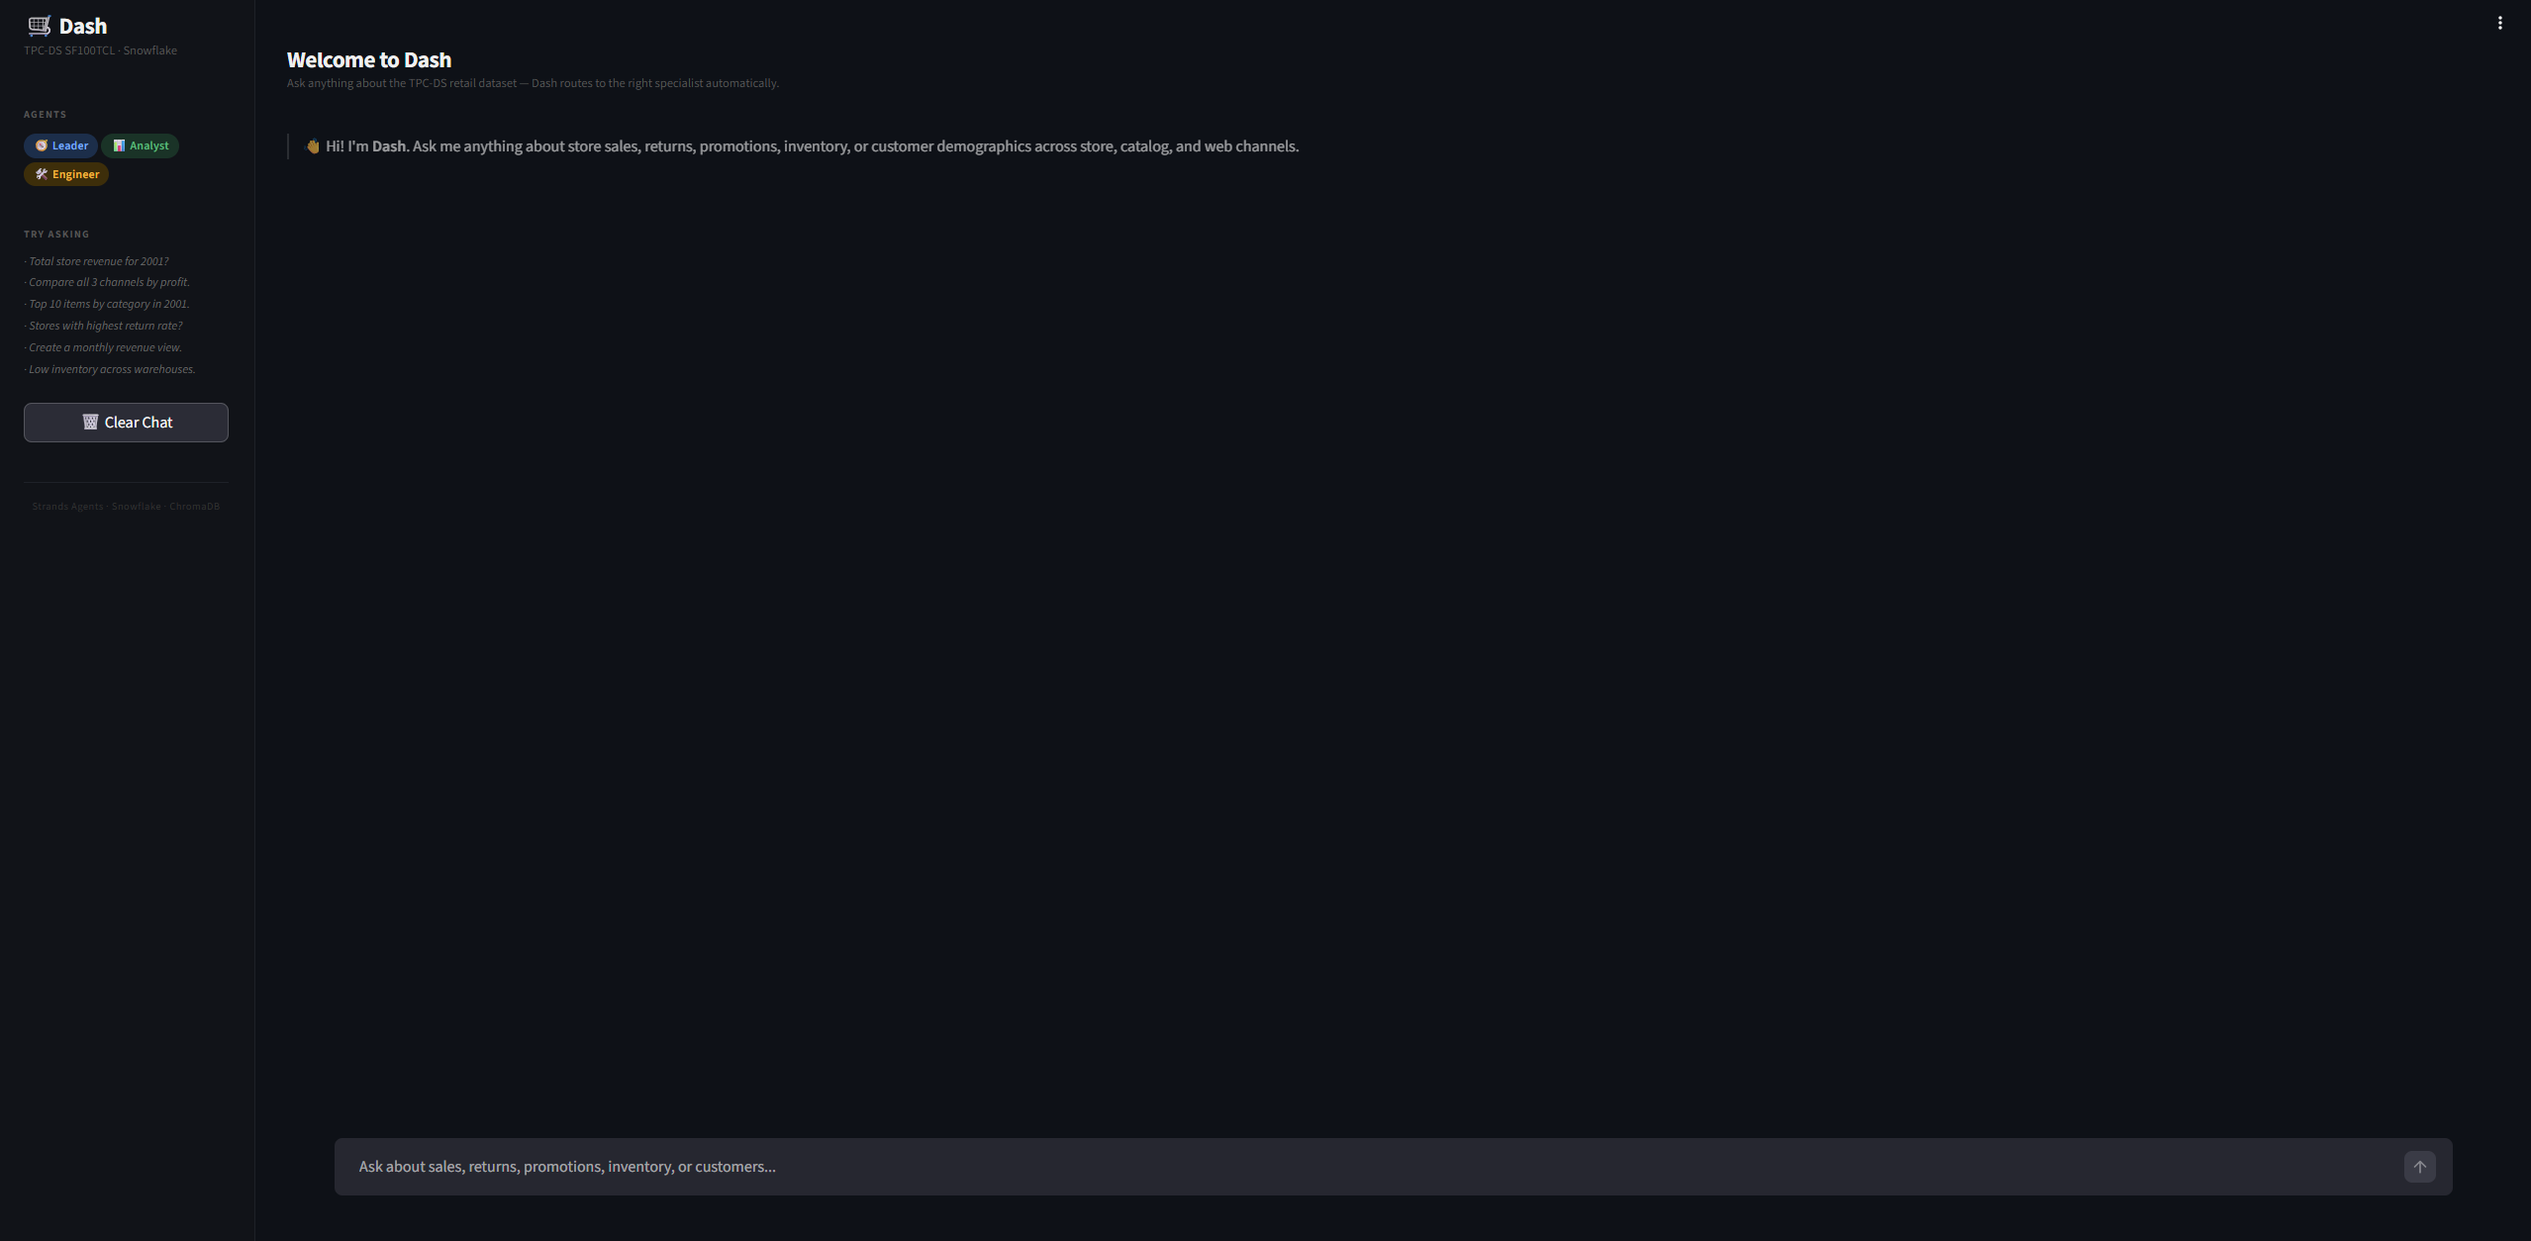
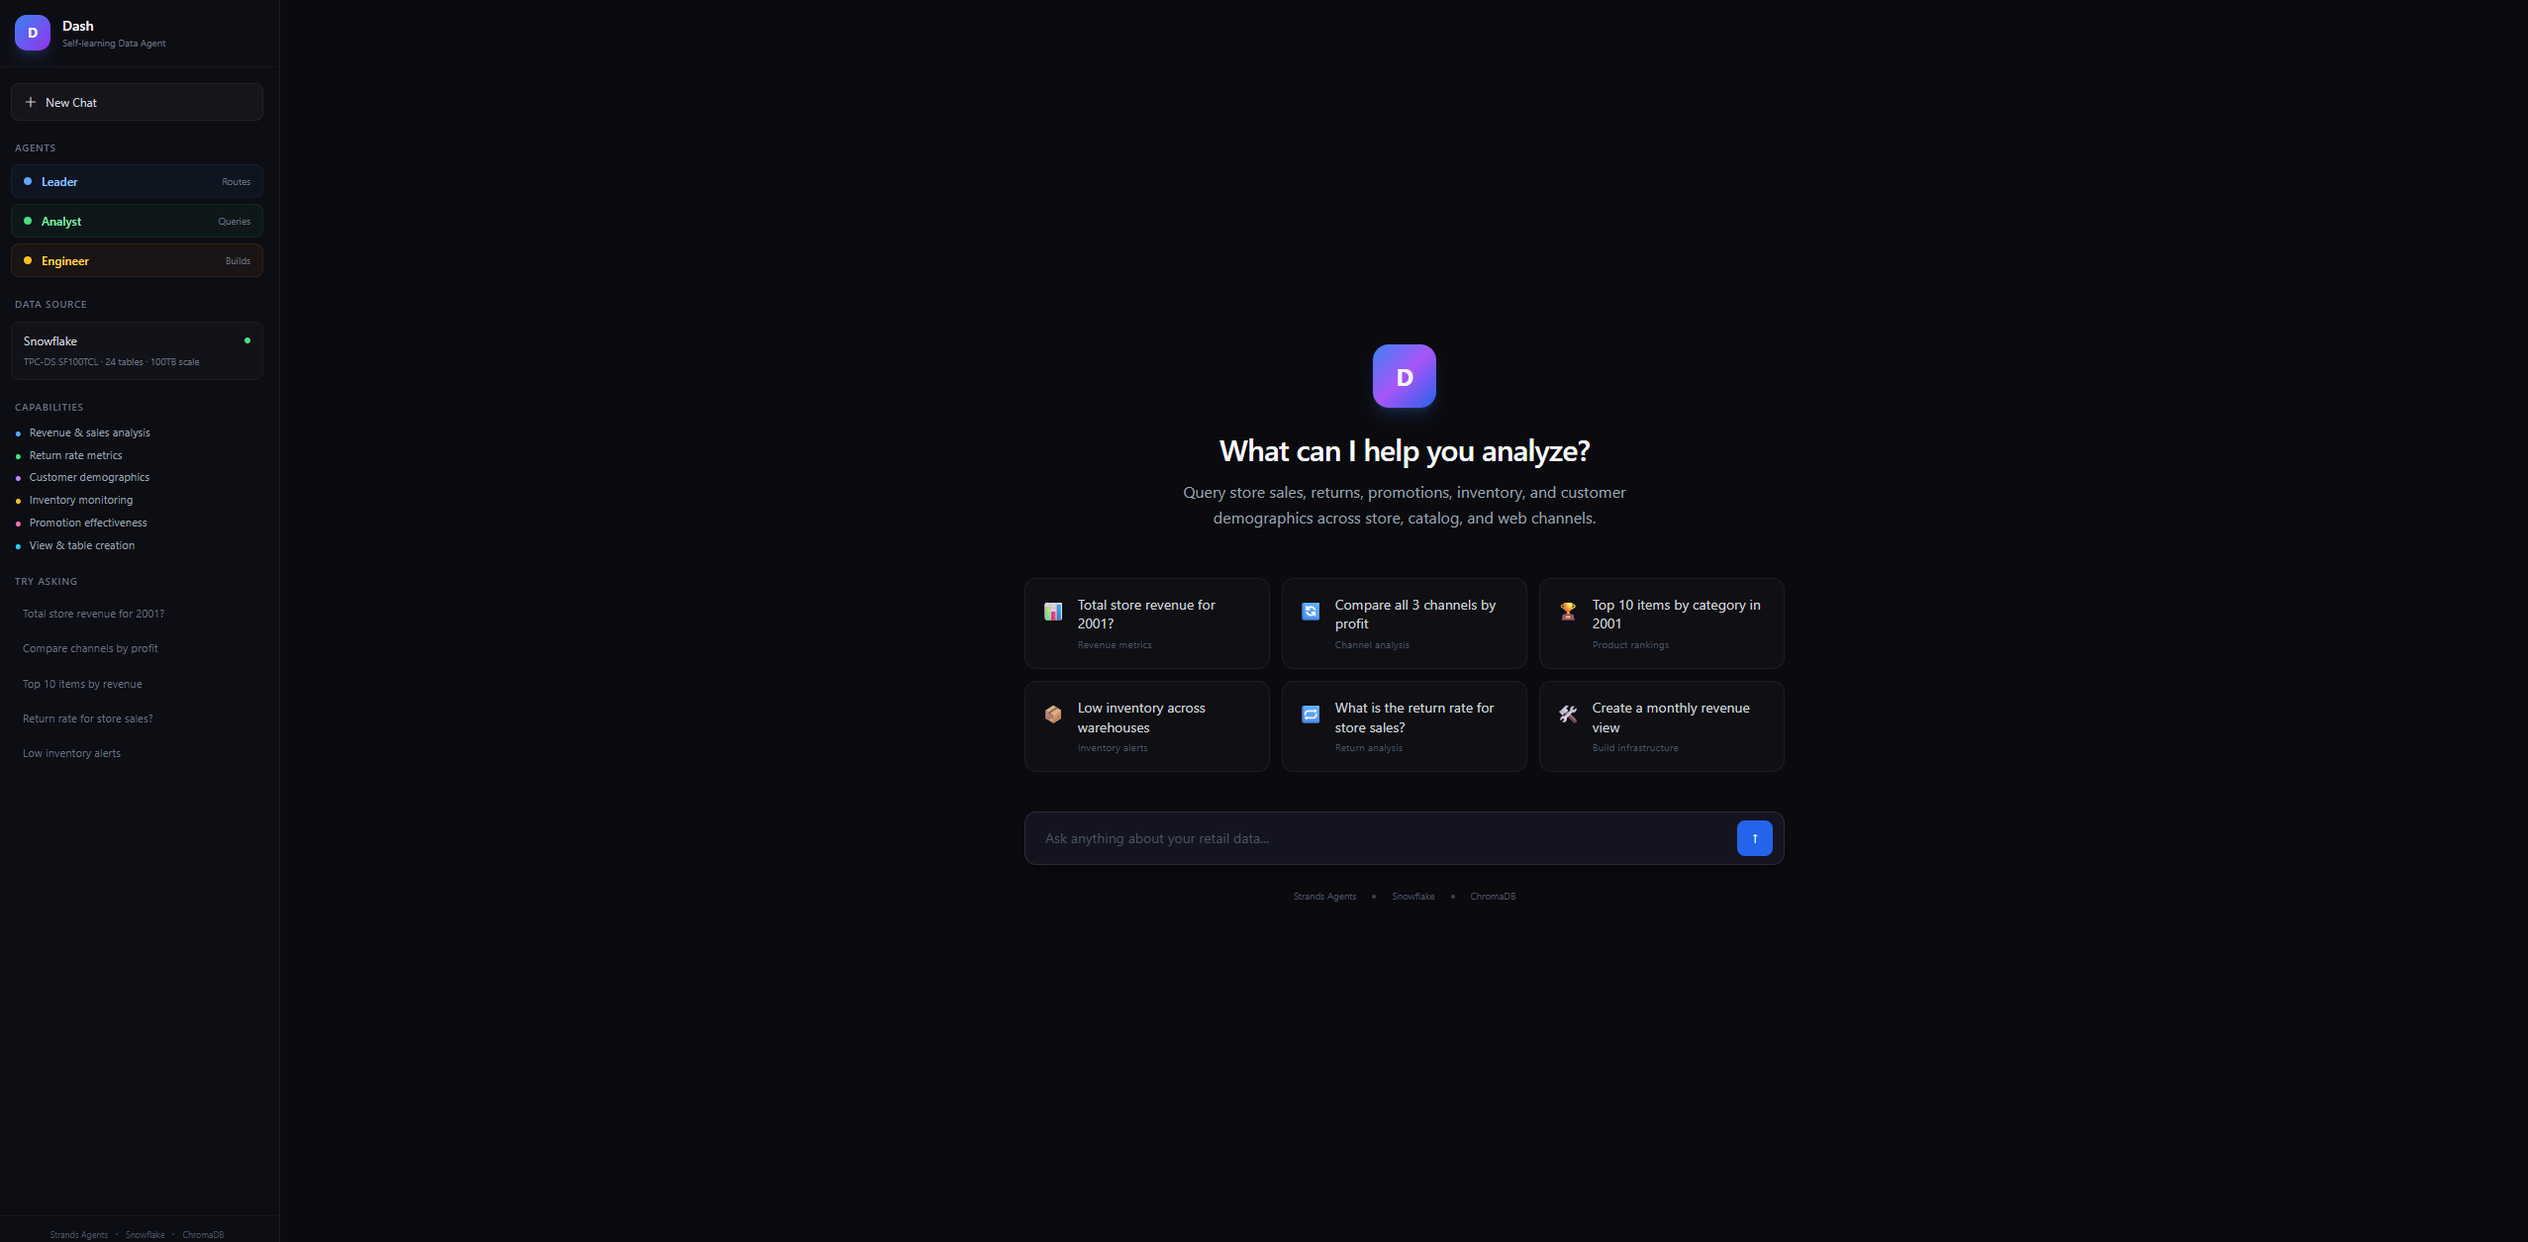
docs: update README for React + FastAPI architecture and refresh app screenshot

diff --git a/README.md b/README.md
@@ -15,35 +15,41 @@ The defining feature of Dash is that it **learns from every interaction**. Succe
 Dash uses a **multi-agent architecture** with a persistent Leader that delegates to two persistent specialists. All three agents are created once per session and retain conversation history across turns.
 
 ```text
-┌──────────────────────────────────────────┐
-│             Streamlit (UI)               │
-│         User types a question            │
-└────────────────────┬─────────────────────┘
-                     │
-                     ▼
-         ┌───────────────────────┐
-         │        LEADER         │
-         │                       │
-         │  Routes to the right  │
-         │  specialist. Synth-   │
-         │  esizes the answer.   │
-         │  No SQL access.       │
-         └──────────┬────────────┘
-                    │
-         ┌──────────┴──────────┐
-         ▼                     ▼
- ┌───────────────┐   ┌──────────────────┐
- │   ANALYST     │   │    ENGINEER      │
- │               │   │                  │
- │ Answers data  │   │ Builds views and │
- │ questions     │   │ summary tables   │
- │ with SQL.     │   │ in dash schema.  │
- │ (READ ONLY)   │   │ (WRITE: dash.*)  │
- └──────┬────────┘   └────────┬─────────┘
-        │                     │
-        ▼                     ▼
-    Snowflake             Snowflake
-(TPCDS_SF100TCL.*)    (DASH_AGENT.dash.*)
+┌────────────────────────────────────────────────────────────────┐
+│              React Frontend (Vite + Tailwind)                  │
+│     Chat UI · Charts (Recharts) · Markdown Rendering          │
+└────────────────────────────┬───────────────────────────────────┘
+                             │  HTTP (POST /api/chat)
+                             ▼
+┌────────────────────────────────────────────────────────────────┐
+│              FastAPI Backend (uvicorn)                         │
+│     Session management · Chart/SQL extraction                 │
+└────────────────────────────┬───────────────────────────────────┘
+                             │
+                             ▼
+                  ┌───────────────────────┐
+                  │        LEADER         │
+                  │                       │
+                  │  Routes to the right  │
+                  │  specialist. Synth-   │
+                  │  esizes the answer.   │
+                  │  No SQL access.       │
+                  └──────────┬────────────┘
+                             │
+                  ┌──────────┴──────────┐
+                  ▼                     ▼
+          ┌───────────────┐   ┌──────────────────┐
+          │   ANALYST     │   │    ENGINEER      │
+          │               │   │                  │
+          │ Answers data  │   │ Builds views and │
+          │ questions     │   │ summary tables   │
+          │ with SQL.     │   │ in dash schema.  │
+          │ (READ ONLY)   │   │ (WRITE: dash.*)  │
+          └──────┬────────┘   └────────┬─────────┘
+                 │                     │
+                 ▼                     ▼
+             Snowflake             Snowflake
+         (TPCDS_SF100TCL.*)    (DASH_AGENT.dash.*)
 ```
 
 ---
@@ -118,17 +124,14 @@ This means the agent knows which table to query, which column to use for revenue
 
 Every response that contains data is automatically formatted by the agent and rendered natively in the UI — no user action required.
 
-### Tables
-When a result has multiple rows, the agent always formats it as a **GitHub-flavoured markdown table** (never bullet points). Numeric columns are right-aligned and large numbers are formatted with SI suffixes (`$14.2T`, `3.5M`). Streamlit renders these natively.
-
-### Charts
-When the data is also visually meaningful, the agent appends a structured `chart` block which `app.py` extracts, strips from the displayed text, and renders as an interactive Plotly figure. The chart block is **never visible to the user** — only the rendered figure is shown.
+### Charts (Primary Output)
+Charts are the **dominant output format**. Whenever a query returns ≥ 2 data points, the agent emits a structured `chart` block. The backend extracts this JSON from the response and sends it as a separate field to the frontend, which renders it using **Recharts** with a custom dark-themed configuration.
 
 **Supported chart types:**
 
 | Type | When used |
 |------|----------|
-| `bar` | Comparing ≤ 8 categories by a single metric |
+| `bar` | Comparing categories by a single metric |
 | `horizontal_bar` | Same, but with long labels or > 8 items |
 | `line` | Ordered time series (monthly, yearly trends) |
 | `pie` | Part-of-whole with ≤ 6 slices |
@@ -137,10 +140,13 @@ When the data is also visually meaningful, the agent appends a structured `chart
 
 **Multi-series charts:** When the result spans both a time/category dimension and a grouping dimension (e.g. monthly revenue broken out by Store / Catalog / Web), the agent uses a `series` format that produces one line or bar group per category — not a flattened single series.
 
+### Tables
+Tables are a secondary format, included only when the chart alone cannot convey important non-numeric context (e.g. item descriptions alongside revenue). The agent formats these as GitHub-flavoured markdown tables, rendered in the frontend via `react-markdown` with `remark-gfm`.
+
 **Implementation:**
-- `extract_chart(text)` — regex extracts the `chart` JSON block and returns `(spec, cleaned_text)`. The block is removed from displayed markdown.
-- `render_chart(spec)` — builds a `plotly.graph_objects` figure and renders it via `st.components.v1.html()` using Plotly loaded from CDN. This bypasses Streamlit's bundled `PlotlyChart.js` to avoid dynamic-import failures in proxied/tunnelled environments.
-- Charts are stored in `st.session_state.chart_map` (keyed by message index) and re-rendered on page reload.
+- Backend `extract_chart(text)` — regex extracts the `chart` JSON block and returns `(spec, cleaned_text)` as separate fields in the API response.
+- Frontend `DashChart` component — renders Recharts figures with dark theme, custom tooltip, SI-suffix axis formatting, and multi-series support.
+- Frontend `ChatMessage` component — renders markdown content with full GFM support (tables, code blocks, lists, links).
 
 ---
 
@@ -223,10 +229,27 @@ python scripts/load_knowledge.py --recreate
 ```
 
 ### 5. Run the App
+
+**Backend** (FastAPI):
+```bash
+uvicorn backend.main:app --reload --port 8000
+```
+
+**Frontend** (React + Vite):
+```bash
+cd frontend
+npm install
+npm run dev
+```
+
+Opens at `http://localhost:5173`. The Vite dev server proxies `/api` requests to the backend on port 8000.
+
+See `Sample_Questions.md` for questions to try.
+
+**Legacy Streamlit UI** (still available):
 ```bash
 streamlit run app.py
 ```
-Opens at `http://localhost:8501`. See `Sample_Questions.md` for questions to try.
 
 ---
 
@@ -254,10 +277,33 @@ python -m evals smoke --verbose
 
 ```text
 .
-├── app.py                          # Streamlit chat UI
-├── requirements.txt
+├── app.py                          # Legacy Streamlit chat UI
+├── requirements.txt                # Python dependencies (incl. FastAPI, uvicorn)
 ├── .env                            # Environment variables (not committed)
 ├── Sample_Questions.md             # Example prompts to try
+│
+├── backend/                        # FastAPI backend
+│   ├── main.py                     # App factory, CORS, router registration
+│   ├── agent_session.py            # Thread-safe agent session management
+│   └── routes/
+│       ├── chat.py                 # POST /api/chat, POST /api/chat/clear
+│       └── health.py               # GET /health
+│
+├── frontend/                       # React frontend (Vite + Tailwind)
+│   ├── package.json
+│   ├── vite.config.js              # Dev server proxy to backend (5min timeout)
+│   ├── tailwind.config.js
+│   ├── index.html
+│   └── src/
+│       ├── main.jsx
+│       ├── App.jsx                 # Layout: Sidebar + Chat/Welcome
+│       ├── index.css               # Tailwind + prose/chart overrides
+│       └── components/
+│           ├── Sidebar.jsx         # Agents, data source, capabilities, samples
+│           ├── WelcomeScreen.jsx   # Landing page with suggestion cards
+│           ├── ChatArea.jsx        # Full-width message list + input
+│           ├── ChatMessage.jsx     # Markdown + chart + SQL toggle per message
+│           └── DashChart.jsx       # Recharts renderer (bar, line, pie, etc.)
 │
 ├── evals/                          # Smoke test suite
 │   ├── __init__.py                 # Category registry
@@ -266,13 +312,7 @@ python -m evals smoke --verbose
 │
 ├── knowledge/                      # Pre-loaded into ChromaDB at startup
 │   ├── tables/                     # 24 TPC-DS table metadata JSONs
-│   │   ├── store_sales.json
-│   │   ├── catalog_sales.json
-│   │   ├── web_sales.json
-│   │   └── ... (21 more)
-│   ├── queries/                    # Validated SQL query patterns
-│   │   ├── top_items_by_revenue.sql
-│   │   └── ... (11 more)
+│   ├── queries/                    # Validated SQL query patterns (12 files)
 │   └── business/
 │       └── tpcds_retail_rules.json # Metrics, gotchas, channel mappings
 │
@@ -286,9 +326,6 @@ python -m evals smoke --verbose
 └── src/dash_strands/
     ├── config.py                   # Env var loader (all settings in one place)
     ├── instructions.py             # Dynamic system prompt builders
-    │                               #   build_analyst_instructions()
-    │                               #   build_engineer_instructions()
-    │                               #   build_leader_instructions()
     │
     ├── context/                    # Runtime context injected into prompts
     │   ├── semantic_model.py       # Reads tables/*.json → SEMANTIC MODEL section
@@ -301,8 +338,6 @@ python -m evals smoke --verbose
     │
     ├── db/
     │   └── __init__.py             # Snowflake SQLAlchemy engine factory
-    │                               #   get_readonly_engine() — SNOWFLAKE_SAMPLE_DATA
-    │                               #   get_write_engine()    — DASH_AGENT.dash
     │
     ├── knowledge/
     │   └── store.py                # ChromaDB client + Azure embedding function
@@ -311,7 +346,7 @@ python -m evals smoke --verbose
         ├── introspect_schema.py    # introspect_schema(action, table_name)
         ├── knowledge_search.py     # knowledge_search(query)
         ├── save_learning.py        # save_learning(problem, fix)
-        ├── save_validated_query.py # save_validated_query(name, description, sql)
+        ├── save_validated_query.py  # save_validated_query(name, description, sql)
         ├── sql_dash_write.py       # execute_sql_dash(sql) — write to dash schema
         ├── sql_readonly.py         # execute_sql_readonly(sql) — read-only + safety guard
         └── update_knowledge.py     # update_knowledge(object_name, ...) — register dash views
@@ -329,9 +364,11 @@ python -m evals smoke --verbose
 | **Data Warehouse** | Snowflake (`SNOWFLAKE_SAMPLE_DATA.TPCDS_SF100TCL`) | 100TB TPC-DS retail dataset |
 | **Agent Workspace** | Snowflake (`DASH_AGENT.dash`) | Views and summary tables built by the Engineer |
 | **Vector Store** | ChromaDB (local persistent) | Knowledge base and learnings memory |
-| **UI** | Streamlit | Chat interface |
-| **Charting** | Plotly (`plotly.graph_objects`) + CDN rendering | Interactive charts rendered via `st.components.v1.html` |
-| **Language** | Python 3.11+ | — |
+| **Backend** | FastAPI + Uvicorn | REST API serving the agent |
+| **Frontend** | React 18 + Vite + Tailwind CSS | Chat interface |
+| **Charting** | Recharts | Dark-themed interactive charts (bar, line, pie, scatter) |
+| **Markdown** | react-markdown + remark-gfm | Rich text rendering (tables, code, lists) |
+| **Language** | Python 3.11+ / JavaScript (ES2022) | — |
 
 ---
 
@@ -340,8 +377,8 @@ python -m evals smoke --verbose
 - **Query cost** — Fact tables have hundreds of billions of rows. The Analyst enforces date filters via a pre-flight safety guard that blocks queries without a `D_YEAR` filter before they hit Snowflake. Vague questions may still be expensive.
 - **TPC-DS date range** — All data covers years 1998–2002. Questions about "current" data default to 2001.
 - **ChromaDB is local** — The vector store lives in `./chroma_data`. It is not shared across machines. Each new environment needs its own `load_knowledge.py` run.
-- **No streaming** — Responses appear all at once after the agent finishes. Long multi-step queries may feel slow.
-- **SQL extraction is heuristic** — The "View SQL" expander in the UI uses regex to find SQL blocks in responses. Complex multi-block responses may not extract cleanly.
+- **No streaming** — Responses appear all at once after the agent finishes. Long multi-step queries may feel slow (the frontend shows an animated "Analyzing..." indicator during waits).
+- **SQL extraction is heuristic** — The "SQL Query" toggle in the UI uses regex to find SQL blocks in responses. Complex multi-block responses may not extract cleanly.
 
 ---
 
